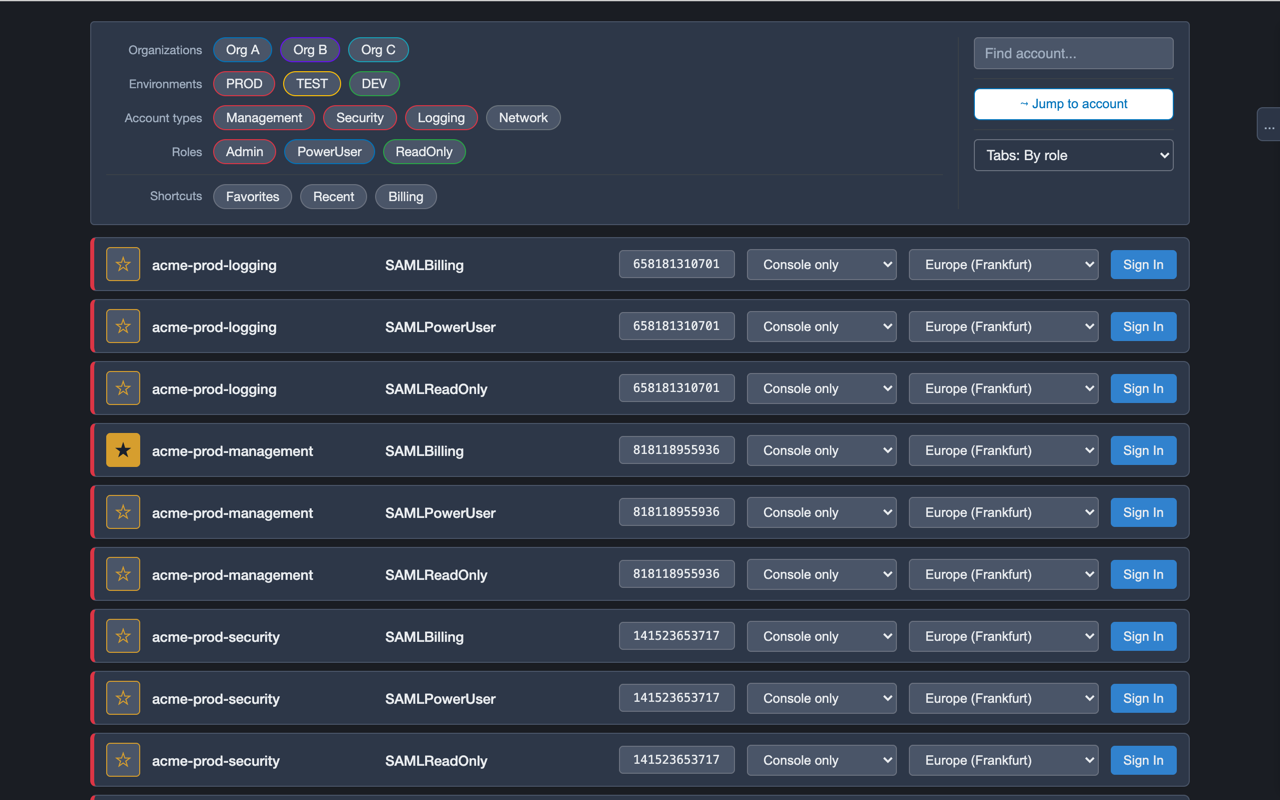
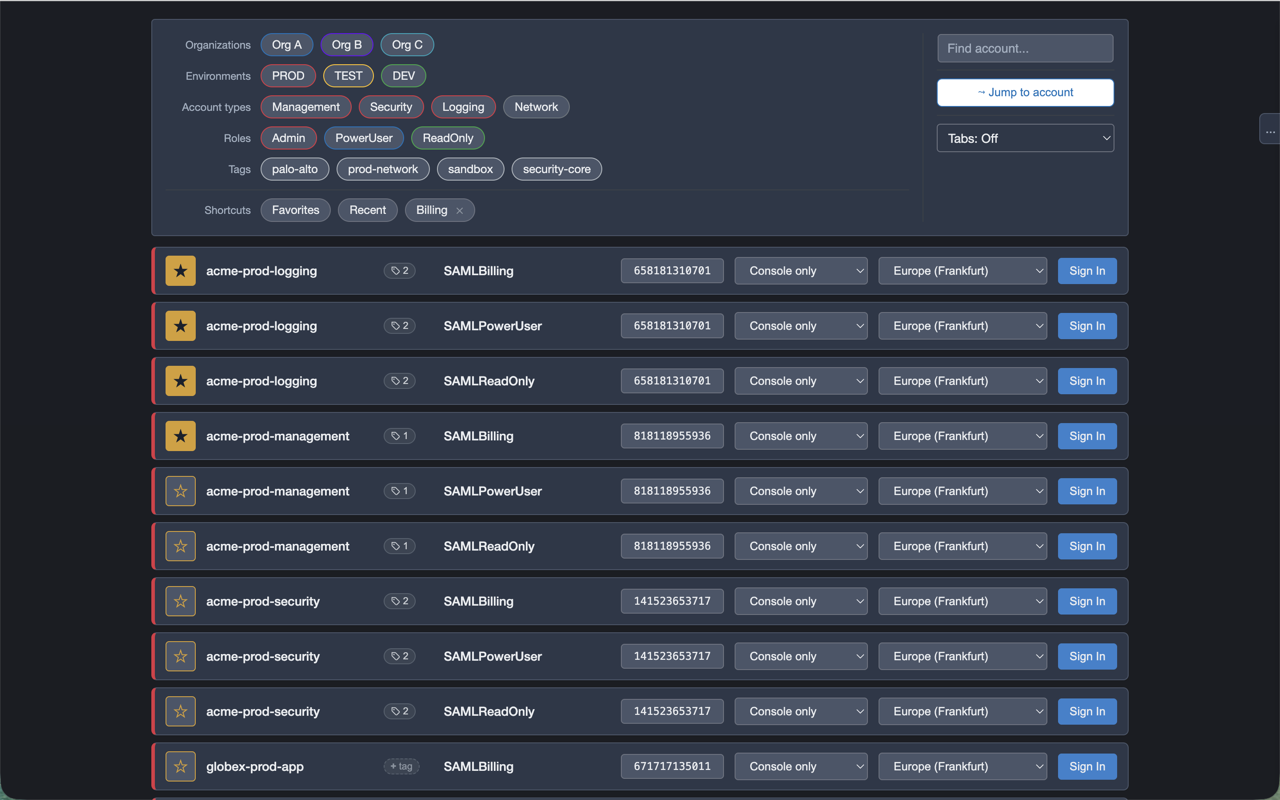
Refresh store screenshots for 1.3.0 — tags, search, tag editor, Start View, dark
Replaces the pre-1.3 shots (jump / side-menu / filter) with five 1280x800
captures of the 1.3.0 UI on generic mock data, and updates the STORE_LISTING
screenshot table to match.

diff --git a/STORE_LISTING.md b/STORE_LISTING.md
@@ -192,21 +192,20 @@ package).
 | Field | Spec | File | Shows |
 |---|---|---|---|
 | Store icon | 128 × 128 PNG | ✅ `icons/icon128.png` | — |
-| Screenshot 1 | 1280 × 800 | ✅ `store-assets/screenshot-1-main.png` | The filterable role picker |
-| Screenshot 2 | 1280 × 800 | ⚠ `store-assets/screenshot-2-jump.png` | Jump-to-account popover — **refresh for 1.2.2** to show pinned jumps + drag-reorder (current image is pre-1.2.2 recents) |
-| Screenshot 3 | 1280 × 800 | ✅ `store-assets/screenshot-3-side-menu.png` | Grouped side menu (View / Configure / Data) |
-| Screenshot 4 | 1280 × 800 | ✅ `store-assets/screenshot-4-filter.png` | Filtering by PROD + ReadOnly |
+| Screenshot 1 | 1280 × 800 | ✅ `store-assets/screenshot-1-main.png` | Role picker with account tags |
+| Screenshot 2 | 1280 × 800 | ✅ `store-assets/screenshot-2-search.png` | Pop-out search — scoped `tag:` query, autocomplete, live match count |
+| Screenshot 3 | 1280 × 800 | ✅ `store-assets/screenshot-3-tags.png` | Inline tag editor on a role row |
+| Screenshot 4 | 1280 × 800 | ✅ `store-assets/screenshot-4-start-view.png` | Start View picker (Views / Shortcuts / Tags) |
 | Screenshot 5 | 1280 × 800 | ✅ `store-assets/screenshot-5-dark.png` | Dark theme |
 | Small promo tile (optional) | 440 × 280 PNG | ⚠ `store-assets/promo-small-440x280.png` (pre-1.2 UI) | — |
 | Marquee promo tile (optional) | 1400 × 560 PNG | ⚠ `store-assets/promo-marquee-1400x560.png` (pre-1.2 UI) | — |
 
 Chrome Web Store requires at least **one** screenshot; five is the max.
-We're shipping the full five (1280 × 800, real extension). For 1.3.0 the
-headline features — **account tags** and the **pop-out search with scoped
-`tag:` / `role:` queries** — aren't shown in any current shot; refreshing a
-couple (e.g. the main list with tag chips, and the search card mid-query)
-would best represent this release. The two promo tiles are optional and
-still show the pre-1.2 UI; regenerate them if you want them current, or drop them.
+We're shipping the full five (1280 × 800, real extension, generic mock
+data) — all refreshed for 1.3.0 to showcase account tags, the pop-out
+search, the inline tag editor, and the redesigned Start View. The two
+promo tiles are optional and still show the pre-1.2 UI; regenerate them if
+you want them current, or drop them.
 
 ---
 
@@ -355,8 +354,8 @@ tabs apart at a glance.
       the pop-out search + scoped queries, save/restore shortcuts, the
       redesigned Start View, filters, side-menu and dark theme; footer reads
       v1.3.0).
-- [ ] Screenshots in `store-assets/` don't yet show 1.3.0's tags or pop-out
-      search — refresh a couple (1280×800) to showcase them before publishing.
+- [x] Five 1280×800 screenshots in `store-assets/`, all refreshed for 1.3.0
+      (main+tags, search, tag editor, Start View, dark) — generic mock data.
 - [ ] Promo tiles (440×280 and 1400×560) still show pre-1.2 UI — optional;
       regenerate or drop before publishing if you want them current.
 - [ ] Confirm the 128×128 icon renders cleanly (the current one is
